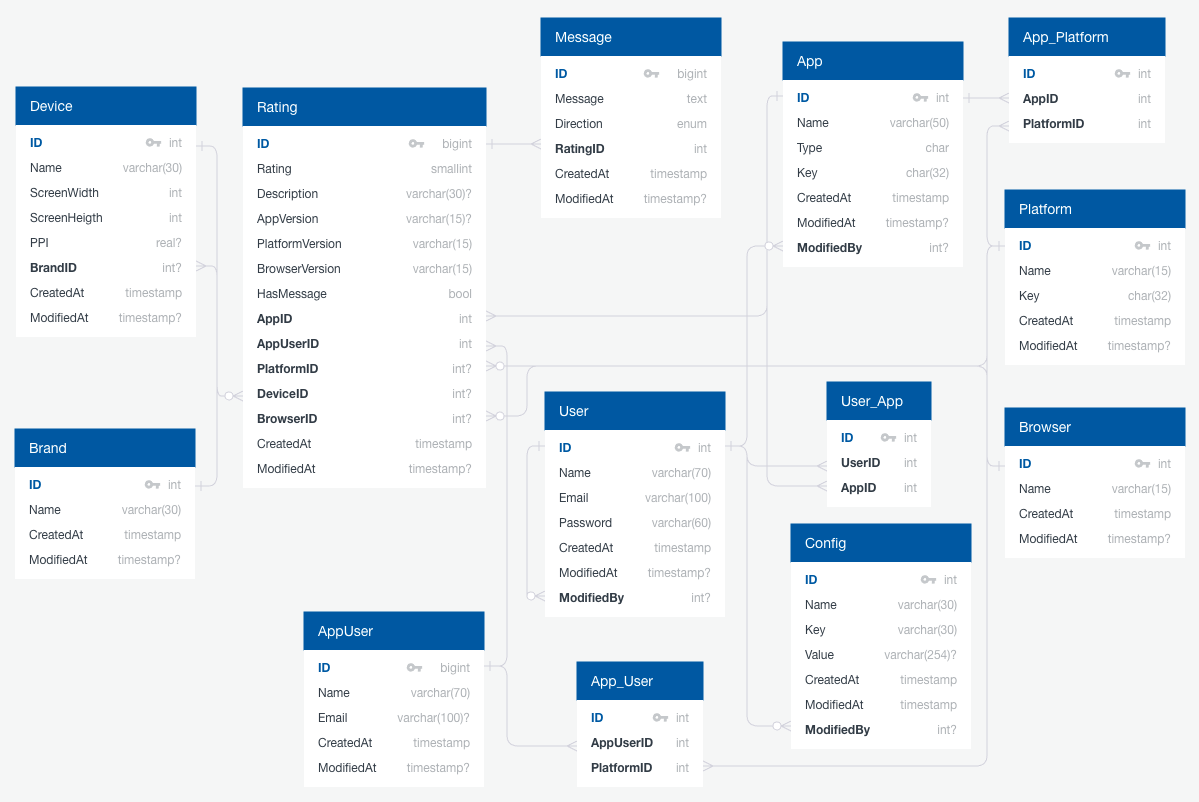
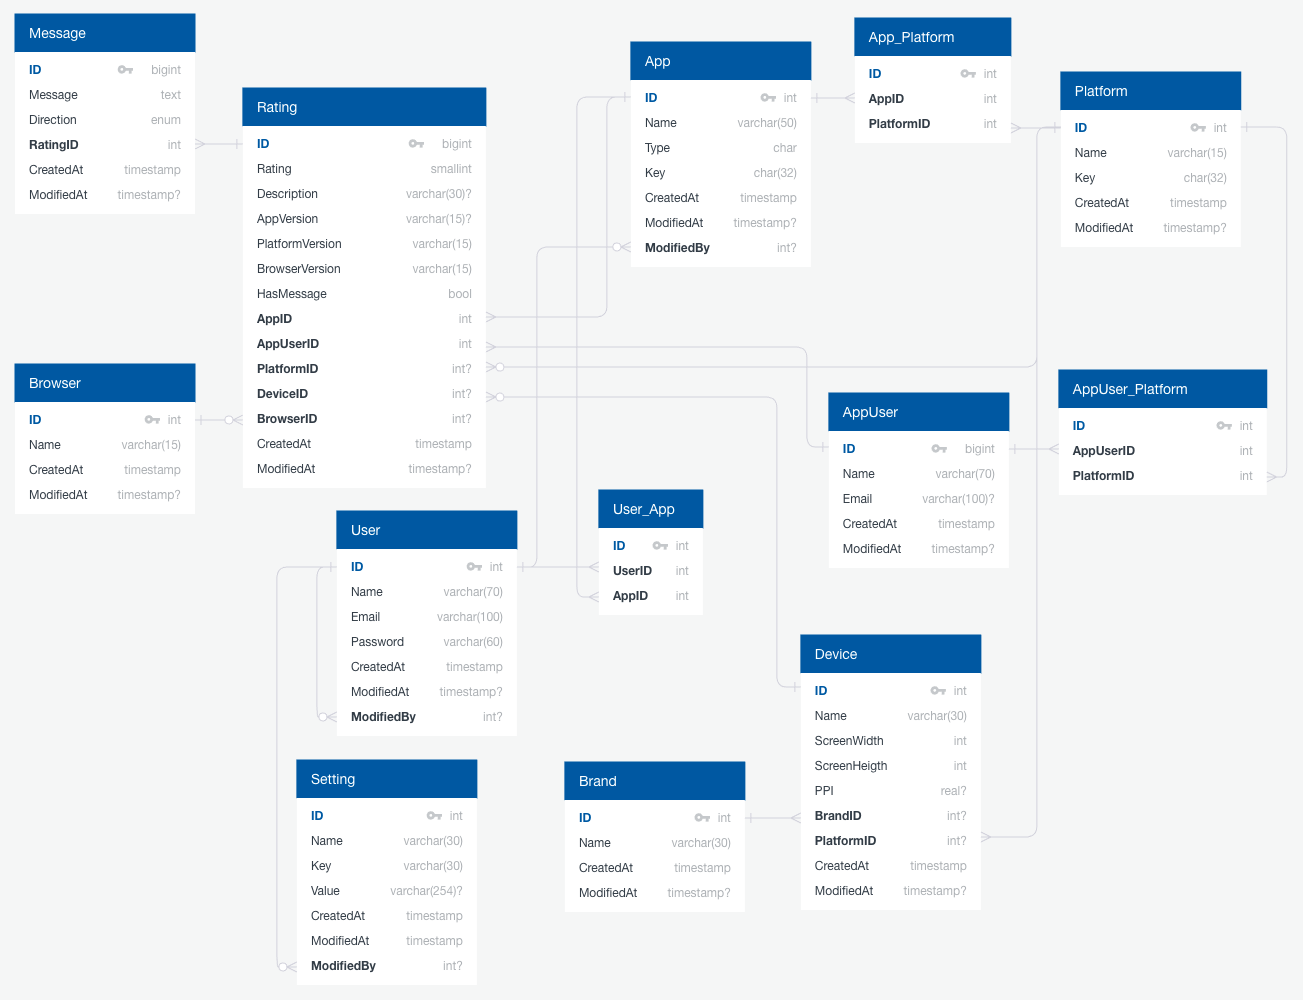
Update

diff --git a/estructura/datos.html b/estructura/datos.html
@@ -33,13 +33,15 @@
                         </li>
                         <li class="heading-item -depth-3"><a class="hlink link-app" href="#app">App</a>
                         </li>
+                        <li class="heading-item -depth-3"><a class="hlink link-platform" href="#platform">Platform</a>
+                        </li>
                         <li class="heading-item -depth-3"><a class="hlink link-user_app" href="#user_app">User_App</a>
+                        </li>
+                        <li class="heading-item -depth-3"><a class="hlink link-app_platform" href="#app_platform">App_Platform</a>
                         </li>
                         <li class="heading-item -depth-3"><a class="hlink link-appuser_app" href="#appuser_app">AppUser_App</a>
                         </li>
-                        <li class="heading-item -depth-3"><a class="hlink link-platform" href="#platform">Platform</a>
-                        </li>
-                        <li class="heading-item -depth-3"><a class="hlink link-app_platform" href="#app_platform">App_Platform</a>
+                        <li class="heading-item -depth-3"><a class="hlink link-appuser_platform" href="#appuser_platform">AppUser_Platform</a>
                         </li>
                         <li class="heading-item -depth-3"><a class="hlink link-device" href="#device">Device</a>
                         </li>
@@ -51,7 +53,7 @@
                         </li>
                         <li class="heading-item -depth-3"><a class="hlink link-message" href="#message">Message</a>
                         </li>
-                        <li class="heading-item -depth-3"><a class="hlink link-config" href="#config">Config</a>
+                        <li class="heading-item -depth-3"><a class="hlink link-setting" href="#setting">Setting</a>
                         </li>
                       </ul>
                     </li>
@@ -89,7 +91,7 @@
         </div>
         <div class="markdown-body"><h1 id="modelo-de-datos">Modelo de datos</h1>
 <p><img src="https://github.com/gcba/hermes/raw/master/docs/images/schema.png" alt="Schema"></p>
-<p>Consta de 13 tablas, sin contar las necesarias para roles y permisos (no aparecen en la imagen) dado que &#xE9;stas son creadas y manejadas autom&#xE1;ticamente por un componente de autorizaci&#xF3;n.</p>
+<p>Consta de 14 tablas, sin contar las necesarias para roles y permisos (no aparecen en la imagen) dado que &#xE9;stas son creadas y manejadas autom&#xE1;ticamente por un componente de autorizaci&#xF3;n.</p>
 <h2 id="tablas">Tablas</h2>
 <h3 id="user">User</h3>
 <p>El usuario del backend.</p>
@@ -172,6 +174,7 @@
 <h4 id="relaciones">Relaciones</h4>
 <ul>
 <li><strong>Many-to-many</strong> con App, a trav&#xE9;s de la tabla <code>AppUser_App</code></li>
+<li><strong>Many-to-many</strong> con Platform, a trav&#xE9;s de la tabla <code>AppUser_Platform</code></li>
 </ul>
 <p>El usuario de las apps que env&#xED;a calificaciones y comentarios.</p>
 <table>
@@ -307,91 +310,12 @@
 </tr>
 </tbody>
 </table>
-<h3 id="user_app">User_App</h3>
-<p>Tabla intermedia para la relaci&#xF3;n many-to-many entre User y App.</p>
-<table>
-<thead>
-<tr>
-<th>Campos</th>
-<th>Tipo</th>
-<th style="text-align:center">FK?</th>
-<th style="text-align:center">Null?</th>
-<th style="text-align:center">Unique?</th>
-<th style="text-align:center">Index?</th>
-</tr>
-</thead>
-<tbody>
-<tr>
-<td>id</td>
-<td>int (PK)</td>
-<td style="text-align:center"></td>
-<td style="text-align:center"></td>
-<td style="text-align:center"></td>
-<td style="text-align:center"></td>
-</tr>
-<tr>
-<td>user_id</td>
-<td>int</td>
-<td style="text-align:center">X</td>
-<td style="text-align:center"></td>
-<td style="text-align:center"></td>
-<td style="text-align:center">X</td>
-</tr>
-<tr>
-<td>app_id</td>
-<td>int</td>
-<td style="text-align:center">X</td>
-<td style="text-align:center"></td>
-<td style="text-align:center"></td>
-<td style="text-align:center">X</td>
-</tr>
-</tbody>
-</table>
-<h3 id="appuser_app">AppUser_App</h3>
-<p>Tabla intermedia para la relaci&#xF3;n many-to-many entre AppUser y App.</p>
-<table>
-<thead>
-<tr>
-<th>Campos</th>
-<th>Tipo</th>
-<th style="text-align:center">FK?</th>
-<th style="text-align:center">Null?</th>
-<th style="text-align:center">Unique?</th>
-<th style="text-align:center">Index?</th>
-</tr>
-</thead>
-<tbody>
-<tr>
-<td>id</td>
-<td>int (PK)</td>
-<td style="text-align:center"></td>
-<td style="text-align:center"></td>
-<td style="text-align:center"></td>
-<td style="text-align:center"></td>
-</tr>
-<tr>
-<td>appuser_id</td>
-<td>int</td>
-<td style="text-align:center">X</td>
-<td style="text-align:center"></td>
-<td style="text-align:center"></td>
-<td style="text-align:center">X</td>
-</tr>
-<tr>
-<td>app_id</td>
-<td>int</td>
-<td style="text-align:center">X</td>
-<td style="text-align:center"></td>
-<td style="text-align:center"></td>
-<td style="text-align:center">X</td>
-</tr>
-</tbody>
-</table>
 <h3 id="platform">Platform</h3>
 <p>La plataforma donde corren las apps y de donde provienen las calificaciones y comentarios.</p>
 <h4 id="relaciones">Relaciones</h4>
 <ul>
 <li><strong>Many-to-many</strong> con App, a trav&#xE9;s de la tabla <code>App_Platform</code></li>
+<li><strong>Many-to-many</strong> con AppUser, a trav&#xE9;s de la tabla <code>AppUser_Platform</code></li>
 </ul>
 <table>
 <thead>
@@ -447,6 +371,46 @@
 </tr>
 </tbody>
 </table>
+<h3 id="user_app">User_App</h3>
+<p>Tabla intermedia para la relaci&#xF3;n many-to-many entre User y App.</p>
+<table>
+<thead>
+<tr>
+<th>Campos</th>
+<th>Tipo</th>
+<th style="text-align:center">FK?</th>
+<th style="text-align:center">Null?</th>
+<th style="text-align:center">Unique?</th>
+<th style="text-align:center">Index?</th>
+</tr>
+</thead>
+<tbody>
+<tr>
+<td>id</td>
+<td>int (PK)</td>
+<td style="text-align:center"></td>
+<td style="text-align:center"></td>
+<td style="text-align:center"></td>
+<td style="text-align:center"></td>
+</tr>
+<tr>
+<td>user_id</td>
+<td>int</td>
+<td style="text-align:center">X</td>
+<td style="text-align:center"></td>
+<td style="text-align:center"></td>
+<td style="text-align:center">X</td>
+</tr>
+<tr>
+<td>app_id</td>
+<td>int</td>
+<td style="text-align:center">X</td>
+<td style="text-align:center"></td>
+<td style="text-align:center"></td>
+<td style="text-align:center">X</td>
+</tr>
+</tbody>
+</table>
 <h3 id="app_platform">App_Platform</h3>
 <p>Tabla intermedia para la relaci&#xF3;n many-to-many entre App y Platform.</p>
 <table>
@@ -471,6 +435,86 @@
 </tr>
 <tr>
 <td>app_id</td>
+<td>int</td>
+<td style="text-align:center">X</td>
+<td style="text-align:center"></td>
+<td style="text-align:center"></td>
+<td style="text-align:center">X</td>
+</tr>
+<tr>
+<td>platform_id</td>
+<td>int</td>
+<td style="text-align:center">X</td>
+<td style="text-align:center"></td>
+<td style="text-align:center"></td>
+<td style="text-align:center">X</td>
+</tr>
+</tbody>
+</table>
+<h3 id="appuser_app">AppUser_App</h3>
+<p>Tabla intermedia para la relaci&#xF3;n many-to-many entre AppUser y App.</p>
+<table>
+<thead>
+<tr>
+<th>Campos</th>
+<th>Tipo</th>
+<th style="text-align:center">FK?</th>
+<th style="text-align:center">Null?</th>
+<th style="text-align:center">Unique?</th>
+<th style="text-align:center">Index?</th>
+</tr>
+</thead>
+<tbody>
+<tr>
+<td>id</td>
+<td>int (PK)</td>
+<td style="text-align:center"></td>
+<td style="text-align:center"></td>
+<td style="text-align:center"></td>
+<td style="text-align:center"></td>
+</tr>
+<tr>
+<td>appuser_id</td>
+<td>int</td>
+<td style="text-align:center">X</td>
+<td style="text-align:center"></td>
+<td style="text-align:center"></td>
+<td style="text-align:center">X</td>
+</tr>
+<tr>
+<td>app_id</td>
+<td>int</td>
+<td style="text-align:center">X</td>
+<td style="text-align:center"></td>
+<td style="text-align:center"></td>
+<td style="text-align:center">X</td>
+</tr>
+</tbody>
+</table>
+<h3 id="appuser_platform">AppUser_Platform</h3>
+<p>Tabla intermedia para la relaci&#xF3;n many-to-many entre AppUser y Platform.</p>
+<table>
+<thead>
+<tr>
+<th>Campos</th>
+<th>Tipo</th>
+<th style="text-align:center">FK?</th>
+<th style="text-align:center">Null?</th>
+<th style="text-align:center">Unique?</th>
+<th style="text-align:center">Index?</th>
+</tr>
+</thead>
+<tbody>
+<tr>
+<td>id</td>
+<td>int (PK)</td>
+<td style="text-align:center"></td>
+<td style="text-align:center"></td>
+<td style="text-align:center"></td>
+<td style="text-align:center"></td>
+</tr>
+<tr>
+<td>appuser_id</td>
 <td>int</td>
 <td style="text-align:center">X</td>
 <td style="text-align:center"></td>
@@ -547,6 +591,14 @@
 </tr>
 <tr>
 <td>brand_id</td>
+<td>int</td>
+<td style="text-align:center">X</td>
+<td style="text-align:center">X</td>
+<td style="text-align:center"></td>
+<td style="text-align:center">X</td>
+</tr>
+<tr>
+<td>platform_id</td>
 <td>int</td>
 <td style="text-align:center">X</td>
 <td style="text-align:center">X</td>
@@ -886,7 +938,7 @@
 </tr>
 </tbody>
 </table>
-<h3 id="config">Config</h3>
+<h3 id="setting">Setting</h3>
 <p>Los valores de configuraci&#xF3;n del backend.</p>
 <h4 id="relaciones">Relaciones</h4>
 <ul>
